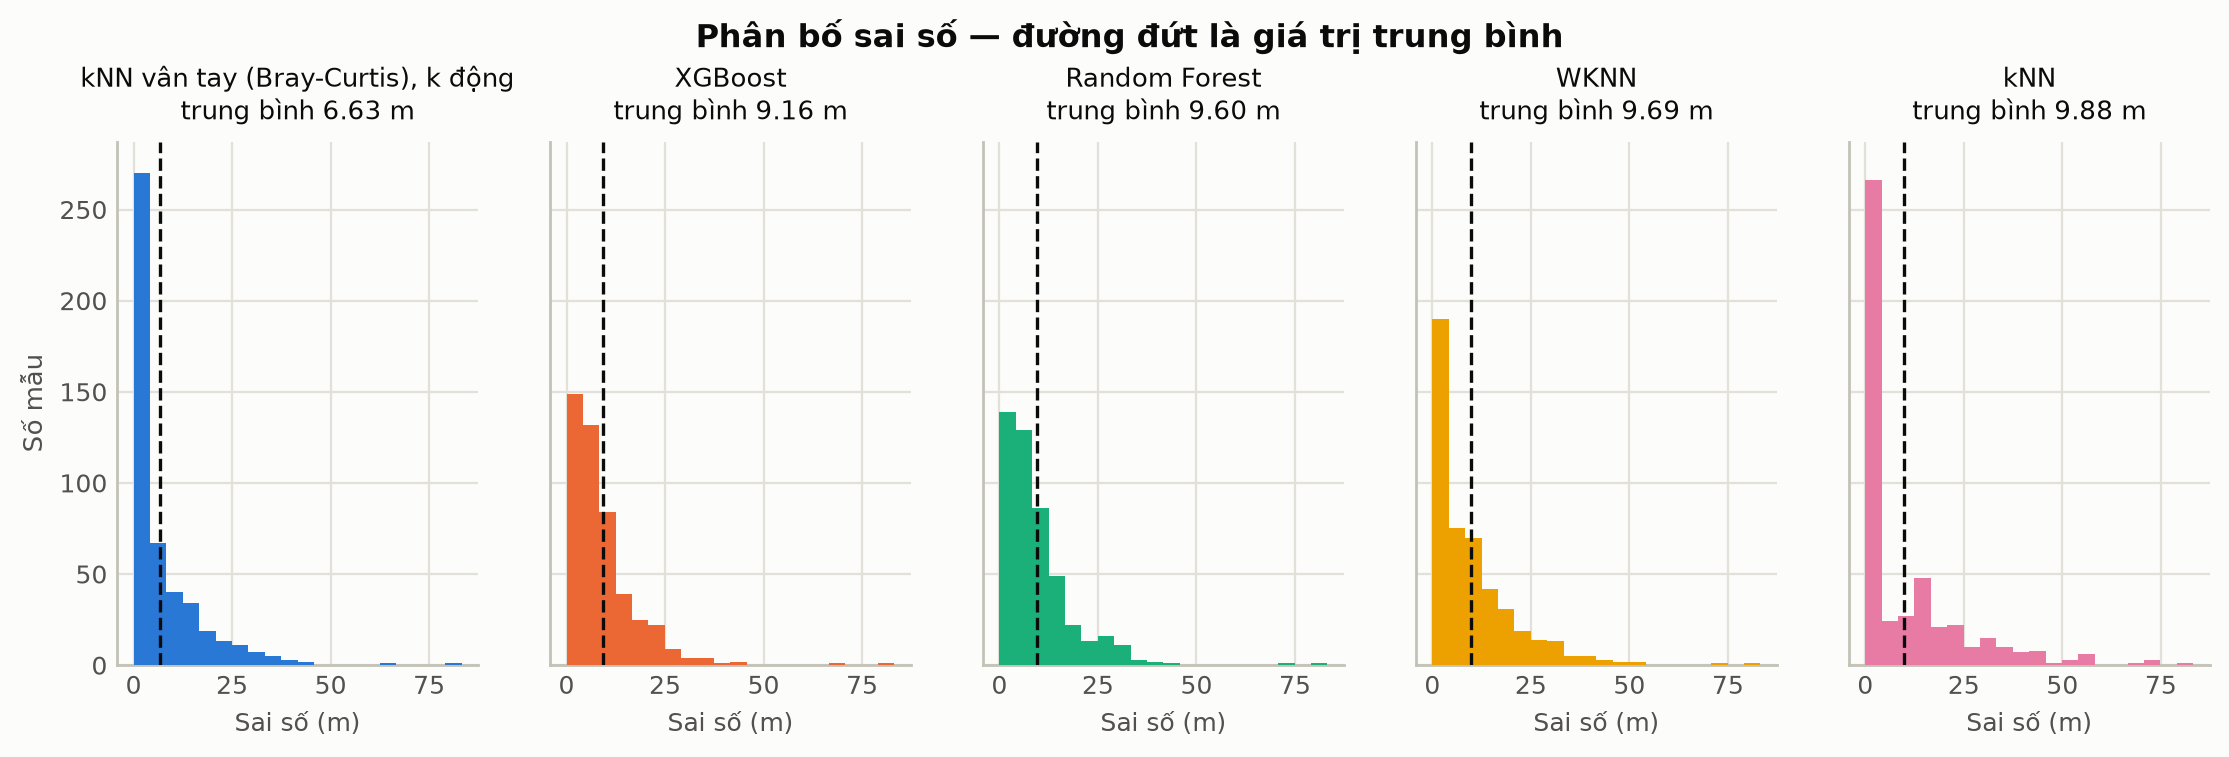
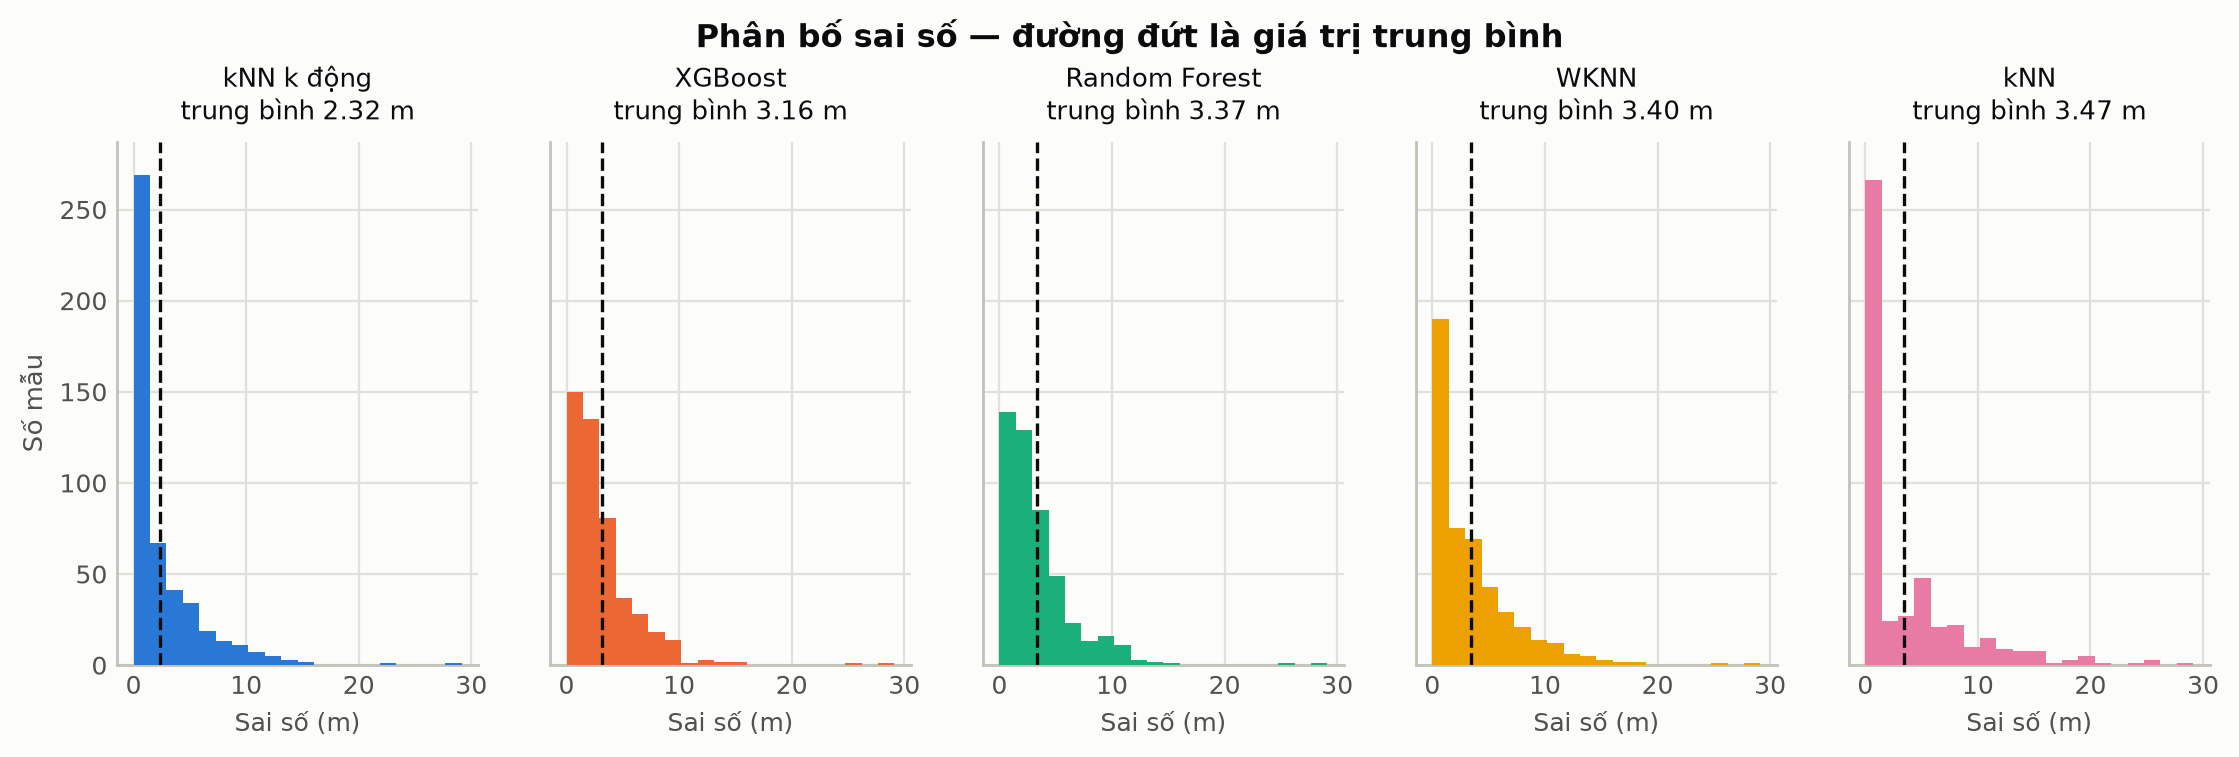
fix(ml): hình báo cáo quy ra mét, log ghi đúng đơn vị lưới, gom hằng số 0,3508 vào config

diff --git a/ml/train.py b/ml/train.py
@@ -97,7 +97,7 @@ def huan_luyen_mot(module, tap: dict, ap_cols: list[str], nhanh: bool) -> dict:
     tham_so, loi_va = quet_luoi(module, X_tr, y_tr, X_va, y_va, nhanh)
     giay_quet = time.perf_counter() - bat_dau
     print(f"    tham số  {tham_so}")
-    print(f"    validation {loi_va:.3f} m · quét {giay_quet:.1f}s")
+    print(f"    validation {loi_va:.3f} đv · quét {giay_quet:.1f}s")
 
     # 2. Huấn luyện lại trên train + validation
     X_full = np.vstack([X_tr, X_va])
@@ -112,9 +112,9 @@ def huan_luyen_mot(module, tap: dict, ap_cols: list[str], nhanh: bool) -> dict:
     ms = evaluate.do_thoi_gian_du_doan(model, X_te)
     ket_qua = evaluate.danh_gia(y_te, y_pred, module.TEN, thoi_gian_ms=ms)
 
-    print(f"    TEST  trung bình {ket_qua['loi_trung_binh']:.3f} m · "
-          f"trung vị {ket_qua['loi_trung_vi']:.3f} m · "
-          f"CDF90 {ket_qua['cdf_90']:.3f} m · {ms:.2f} ms/mẫu")
+    print(f"    TEST  trung bình {ket_qua['loi_trung_binh']:.3f} đv · "
+          f"trung vị {ket_qua['loi_trung_vi']:.3f} đv · "
+          f"CDF90 {ket_qua['cdf_90']:.3f} đv · {ms:.2f} ms/mẫu")
 
     return {
         "module": module,
@@ -222,7 +222,7 @@ def run(ten_mo_hinh: list[str] | None = None, nhanh: bool = False) -> pd.DataFra
                    index=False)
 
     print("\n" + "=" * 66)
-    print("BẢNG SO SÁNH — sai số trên tập test, đơn vị mét")
+    print("BẢNG SO SÁNH — sai số trên tập test, đơn vị lưới")
     print("=" * 66)
     hien = bang[["mo_hinh", "loi_trung_binh", "loi_trung_vi", "cdf_50",
                  "cdf_75", "cdf_90", "loi_lon_nhat", "thoi_gian_du_doan_ms"]]
@@ -233,14 +233,14 @@ def run(ten_mo_hinh: list[str] | None = None, nhanh: bool = False) -> pd.DataFra
     r_co_so = chon_theo_validation(tat_ca, lambda r: r["module"].TEN in ("kNN", "WKNN"))
     co_so = r_co_so["ket_qua_test"]["loi_trung_binh"] if r_co_so else 0.0
     tot = tot_nhat["ket_qua_test"]["loi_trung_binh"]
-    print(f"\nTriển khai: {tot_nhat['module'].TEN} — {tot:.3f} m")
+    print(f"\nTriển khai: {tot_nhat['module'].TEN} — {tot:.3f} đv")
     if co_so > 0:
-        print(f"So với cơ sở tốt nhất ({co_so:.3f} m): "
+        print(f"So với cơ sở tốt nhất ({co_so:.3f} đv): "
               f"{'giảm' if tot < co_so else 'TĂNG'} {abs(tot - co_so) / co_so * 100:.1f}%")
         print("Mục tiêu: thấp hơn cơ sở 10-20%")
 
     print(f"\nĐiểm sai nhiều nhất: " + ", ".join(
-        f"{r.rp_id} ({r.loi_trung_binh:.1f} m)" for r in theo_diem.head(3).itertuples()))
+        f"{r.rp_id} ({r.loi_trung_binh:.1f} đv)" for r in theo_diem.head(3).itertuples()))
 
     hoc = pd.concat([tap["train"], tap["validation"]], ignore_index=True)
     y_ngoai = evaluate.du_doan_ngoai_phan(
@@ -252,9 +252,9 @@ def run(ten_mo_hinh: list[str] | None = None, nhanh: bool = False) -> pd.DataFra
     print(f"Sau khi gộp, cửa sổ {gop['cua_so']} lần quét, theo thứ tự thời gian:")
     for nhan, g in ((f"test, {gop['so_lan_quet']} lần quét/điểm", ct),
                     ("chuỗi dài train+val, ngoài phần", cd)):
-        print(f"  {nhan:32s} {g['khong_gop']:5.2f} → {g['loi_trung_binh']:5.2f} m · "
+        print(f"  {nhan:32s} {g['khong_gop']:5.2f} → {g['loi_trung_binh']:5.2f} đv · "
               f"sai {g['so_mau_sai_khong_gop']} → {g['so_mau_sai']}/{g['so_mau']}")
-    print(f"  {'đứng yên (chặn dưới)':32s} {dy['loi_trung_binh']:5.2f} m · "
+    print(f"  {'đứng yên (chặn dưới)':32s} {dy['loi_trung_binh']:5.2f} đv · "
           f"sai {dy['so_vi_tri_sai']}/{dy['so_vi_tri']} vị trí")
 
     metadata["hau_xu_ly_gop"] = gop

diff --git a/ml/report.py b/ml/report.py
@@ -76,12 +76,14 @@ def nap():
     meta = json.loads((config.ARTIFACTS_DIR / "model_metadata.json").read_text(encoding="utf-8"))
     fl = json.loads((config.ARTIFACTS_DIR / config.FEATURE_LIST_JSON).read_text(encoding="utf-8"))
     te = pd.read_csv(config.SPLITS_DIR / "test.csv")
+    # Mô hình học và đoán theo đơn vị lưới; mọi hình vẽ theo mét.
+    te[["x", "y"]] *= config.MET_MOI_DON_VI
     ap = fl["ap_columns"]
 
     loi, du_doan = {}, {}
     for khoa, tt in meta["cac_mo_hinh"].items():
         m = joblib.load(config.ARTIFACTS_DIR / f"model_{khoa}.pkl")
-        p = m.predict(te[ap].to_numpy(float))
+        p = m.predict(te[ap].to_numpy(float)) * config.MET_MOI_DON_VI
         du_doan[tt["ten"]] = p
         loi[tt["ten"]] = evaluate.khoang_cach_loi(te[["x", "y"]].to_numpy(float), p)
 
@@ -158,6 +160,7 @@ def hieu_qua_gop(meta: dict, te: pd.DataFrame, ap: list[str], du_doan: dict) -> 
     yh = hoc[["x", "y"]].to_numpy(float)
     q = evaluate.du_doan_ngoai_phan(importlib.import_module(f"ml.models.{khoa}"), tt["tham_so"],
                                     hoc[ap].to_numpy(float), yh, hoc["rp_id"])
+    yh, q = yh * config.MET_MOI_DON_VI, q * config.MET_MOI_DON_VI
     w = postprocess.CUA_SO_MAC_DINH
 
     def dung_yen(fn):

diff --git a/ml/danh_gia_cheo.py b/ml/danh_gia_cheo.py
@@ -164,14 +164,14 @@ def _in_doi_chieu(bang_bo_diem: pd.DataFrame) -> None:
     ngau_nhien = pd.read_csv(cu).set_index("mo_hinh")["loi_trung_binh"]
 
     print("\n" + "-" * 72)
-    print("HAI GIAO THỨC, CÙNG NĂM MÔ HÌNH — sai số trung bình, mét")
+    print("HAI GIAO THỨC, CÙNG NĂM MÔ HÌNH — sai số trung bình, đơn vị lưới")
     print("-" * 72)
     print(f"{'mô hình':28s} {'chia ngẫu nhiên':>16s} {'bỏ trọn một điểm':>18s}")
     for _, d in bang_bo_diem.iterrows():
         a = ngau_nhien.get(d["mo_hinh"])
-        print(f"{d['mo_hinh']:28s} {a:14.2f} m {d['loi_trung_binh']:16.2f} m"
+        print(f"{d['mo_hinh']:28s} {a:14.2f} đv {d['loi_trung_binh']:16.2f} đv"
               if a is not None else
-              f"{d['mo_hinh']:28s} {'—':>16s} {d['loi_trung_binh']:16.2f} m")
+              f"{d['mo_hinh']:28s} {'—':>16s} {d['loi_trung_binh']:16.2f} đv")
     print("\nCột trái là chặn lạc quan, cột phải là chặn bi quan. Xem docstring "
           "đầu tệp\nvề lý do hai cột lệch nhau và vì sao thứ hạng đảo.")
 

diff --git a/ml/khac_dot.py b/ml/khac_dot.py
@@ -24,7 +24,6 @@ from ml import models as goi_mo_hinh
 from ml import preprocess as pre
 from ml.danh_gia_cheo import _luoi_da_dung, _tham_so, nap_bang_rong
 
-MET_MOI_DON_VI = 0.3508
 HAI_CHIEU = (("A", "B"), ("B", "A"))
 
 
@@ -77,8 +76,8 @@ def run(ten_mo_hinh: list[str] | None = None) -> pd.DataFrame:
         hang["loi_trung_binh"] = float(np.mean(cac_loi))
         dong.append(hang)
         print(f"  {mo_dun.TEN:36s} " + "  ".join(
-            f"{k} {hang[f'loi_trung_binh_{k}'] * MET_MOI_DON_VI:5.2f} m" for k in chieu)
-            + f"  · TB {hang['loi_trung_binh'] * MET_MOI_DON_VI:5.2f} m")
+            f"{k} {hang[f'loi_trung_binh_{k}'] * config.MET_MOI_DON_VI:5.2f} m" for k in chieu)
+            + f"  · TB {hang['loi_trung_binh'] * config.MET_MOI_DON_VI:5.2f} m")
 
     bang = pd.DataFrame(dong).sort_values("loi_trung_binh").reset_index(drop=True)
     (config.REPORTS_DIR / "tables").mkdir(parents=True, exist_ok=True)

diff --git a/ml/preprocess.py b/ml/preprocess.py
@@ -272,9 +272,9 @@ def filter_sparse_scans(
 
 # ======================== Bước 7 — điền RSSI thiếu ========================
 # Ô trống = AP không được phát hiện, cần số đại diện cho "yếu hơn mọi tín hiệu
-# từng đo": min(RSSI) - 1, ra -96 dBm; hơn hằng số -98 vốn có thể trùng tín
-# hiệu yếu thật. PHẢI ghi vào feature_list.json, nếu không vector lúc dự đoán
-# lệch phân bố so với lúc huấn luyện.
+# từng đo": min(RSSI) - 1 trên train, ra -100 dBm với dữ liệu A + B; hơn hằng
+# số vốn có thể trùng tín hiệu yếu thật. PHẢI ghi vào feature_list.json, nếu
+# không vector lúc dự đoán lệch phân bố so với lúc huấn luyện.
 
 def compute_missing_value(fingerprint: pd.DataFrame, ap_cols: list[str]) -> float:
     return float(np.nanmin(fingerprint[ap_cols].to_numpy(dtype=float))) - 1.0

diff --git a/ml/quet_k.py b/ml/quet_k.py
@@ -29,7 +29,6 @@ from ml.train import nap_du_lieu
 
 CAC_K = [1, 2, 3, 4, 5, 7, 9, 11, 15, 21, 31, 41, 61]
 SO_SEED = 10
-MET_MOI_DON_VI = 0.3508
 
 MO_HINH = [knn, wknn, fingerprint_knn]
 
@@ -82,7 +81,7 @@ def run() -> pd.DataFrame:
 
     bang = pd.DataFrame(dong)
     for cot in ("validation", "test_10_seed", "test_10_seed_lech_chuan", "bo_diem", "bo_diem_trung_vi"):
-        bang[cot + "_m"] = bang[cot] * MET_MOI_DON_VI
+        bang[cot + "_m"] = bang[cot] * config.MET_MOI_DON_VI
     (config.REPORTS_DIR / "tables").mkdir(parents=True, exist_ok=True)
     config.ghi_csv(bang, config.REPORTS_DIR / "tables" / "quet_k.csv", index=False)
     _ve(bang)

diff --git a/ml/config.py b/ml/config.py
@@ -72,6 +72,9 @@ MIN_AP_PER_SCAN = 6
 RSSI_NHO_NHAT = -100.0
 RSSI_LON_NHAT = 0.0
 
+# Hình 7 báo cáo CTK45: bốn kích thước dọc 19,6 m trên 55,87 đơn vị lưới.
+MET_MOI_DON_VI = 0.3508
+
 # Bước 8: hệ số Hampel filter (k * MAD)
 HAMPEL_K = 3.0
 MAD_SCALE = 1.4826  # hệ số hiệu chỉnh cho phân phối Gaussian
